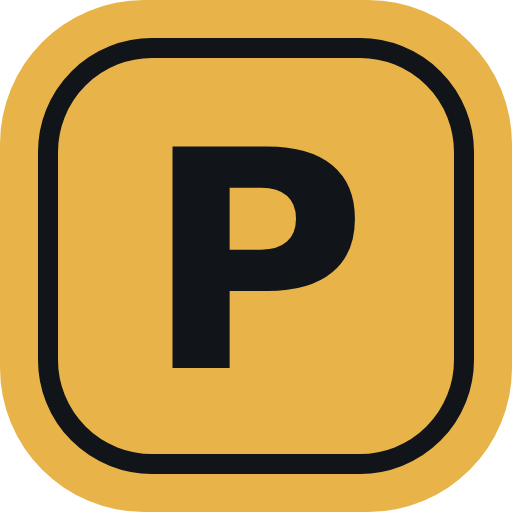
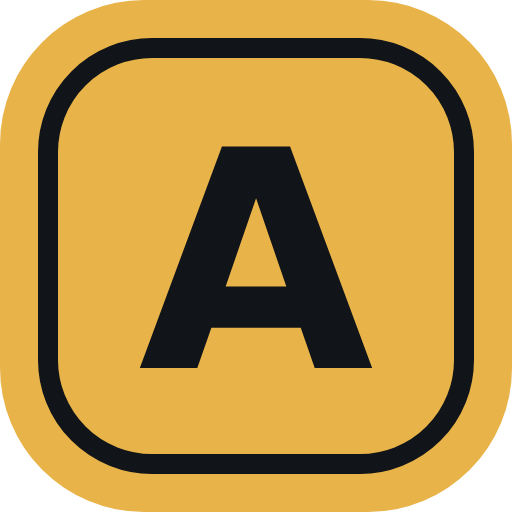
App mark: a single framed A
Claude-Session: https://claude.ai/code/session_01CxJEc1Hy1WUCaqvM2jGHtb

Changed region(s): [[0.375, 0.2812, 0.75, 0.7188], [0.25, 0.2812, 0.4375, 0.7188]]

diff --git a/Photo-Map.html b/Photo-Map.html
@@ -4,7 +4,7 @@
 <meta charset="UTF-8" />
 <meta name="viewport" content="width=device-width, initial-scale=1.0" />
 <meta name="theme-color" content="#ffffff" />
-<link rel="manifest" href="manifest.webmanifest?v=10" />
+<link rel="manifest" href="manifest.webmanifest?v=11" />
 <link rel="icon" href="icon.svg" type="image/svg+xml" />
 <link rel="preconnect" href="https://fonts.googleapis.com" /><link rel="preconnect" href="https://fonts.gstatic.com" crossorigin />
 <link href="https://fonts.googleapis.com/css2?family=Roboto+Mono:wght@700&display=swap" rel="stylesheet" />
@@ -39,7 +39,7 @@
   header{height:var(--header-h);display:flex;align-items:center;gap:14px;padding:0 16px;
     background:var(--panel);border-bottom:1px solid var(--line);position:relative;z-index:1200;}
   .brand{display:flex;align-items:center;gap:9px;flex:0 0 auto;}
-  .brand .pm-mark{flex-shrink:0;display:block;}   /* the app mark: gold squircle with a framed P */
+  .brand .pm-mark{flex-shrink:0;display:block;}   /* the app mark: gold squircle with a framed A */
   .brand h1{font-family:var(--font);font-weight:700;font-size:17px;margin:0;color:var(--ink);}
   .brand h1 span{color:var(--accent);}
   .menubar{display:flex;align-items:center;gap:2px;margin-left:10px;height:100%;}
@@ -728,7 +728,7 @@
 <body>
 
 <header>
-  <div class="brand"><svg class="pm-mark" viewBox="0 0 64 64" width="30" height="30" aria-hidden="true"><rect width="64" height="64" rx="18" fill="#e8b44a"/><rect x="6" y="6" width="52" height="52" rx="13" fill="none" stroke="#111418" stroke-width="2.5"/><text x="32" y="46" text-anchor="middle" font-family="system-ui,Segoe UI,Arial,sans-serif" font-weight="800" font-size="38" fill="#111418">P</text></svg><div class="brand-t"><h1>Action<span>Map</span></h1><span class="savestat" id="saveStatus" title="When the project file was last saved"></span></div><span class="build" id="buildStamp" style="display:none" title="When this copy of the app was published — if it's older than the latest change, you're running a stale copy"></span></div>
+  <div class="brand"><svg class="pm-mark" viewBox="0 0 64 64" width="30" height="30" aria-hidden="true"><rect width="64" height="64" rx="18" fill="#e8b44a"/><rect x="6" y="6" width="52" height="52" rx="13" fill="none" stroke="#111418" stroke-width="2.5"/><text x="32" y="46" text-anchor="middle" font-family="system-ui,Segoe UI,Arial,sans-serif" font-weight="800" font-size="38" fill="#111418">A</text></svg><div class="brand-t"><h1>Action<span>Map</span></h1><span class="savestat" id="saveStatus" title="When the project file was last saved"></span></div><span class="build" id="buildStamp" style="display:none" title="When this copy of the app was published — if it's older than the latest change, you're running a stale copy"></span></div>
   <nav class="menubar" id="menubar">
     <div class="mb"><button class="mb-btn" type="button">File</button><div class="mb-drop">
       <button class="mi" id="btnOpenJson" type="button" title="Open a saved project file (.json). The current project is closed first — you'll be asked.">Open project…</button>
@@ -4412,7 +4412,7 @@ function parseShareHash(){
 /* ================= MOBILE FIELD UI =================
    Phone-sized touch screens get an actions-first UI at the SAME link. It reads the latest
    pack.json from the private data repo (token pasted once) and pushes ticks/notes back. */
-const PM_MARK=w=>'<svg class="pm-mark" viewBox="0 0 64 64" width="'+w+'" height="'+w+'" aria-hidden="true"><rect width="64" height="64" rx="18" fill="#e8b44a"/><rect x="6" y="6" width="52" height="52" rx="13" fill="none" stroke="#111418" stroke-width="2.5"/><text x="32" y="46" text-anchor="middle" font-family="system-ui,Segoe UI,Arial,sans-serif" font-weight="800" font-size="38" fill="#111418">P</text></svg>';
+const PM_MARK=w=>'<svg class="pm-mark" viewBox="0 0 64 64" width="'+w+'" height="'+w+'" aria-hidden="true"><rect width="64" height="64" rx="18" fill="#e8b44a"/><rect x="6" y="6" width="52" height="52" rx="13" fill="none" stroke="#111418" stroke-width="2.5"/><text x="32" y="46" text-anchor="middle" font-family="system-ui,Segoe UI,Arial,sans-serif" font-weight="800" font-size="38" fill="#111418">A</text></svg>';
 function isMobile(){ try{ return matchMedia("(pointer:coarse)").matches && Math.min(screen.width,screen.height)<600 && !localStorage.getItem("pmForceDesktop"); }catch(e){ return false; } }
 let mPack=null, mGeo=null, mMiniMap=null, mInsetMap=null, mInsetMapL=null, mInsetCur=null, mHomeMap=null, mHomeBB=null;
 let _mpRaw=null,_mpObj=null;
